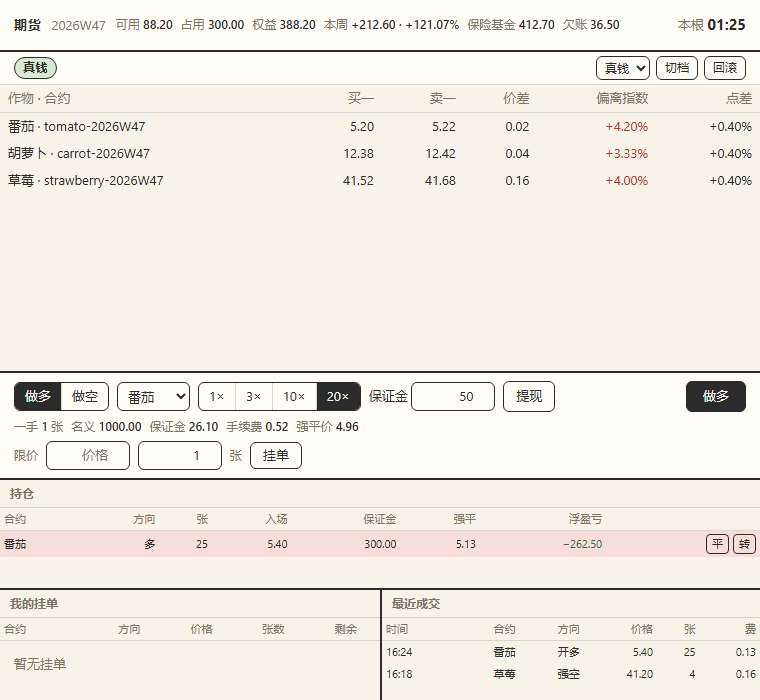
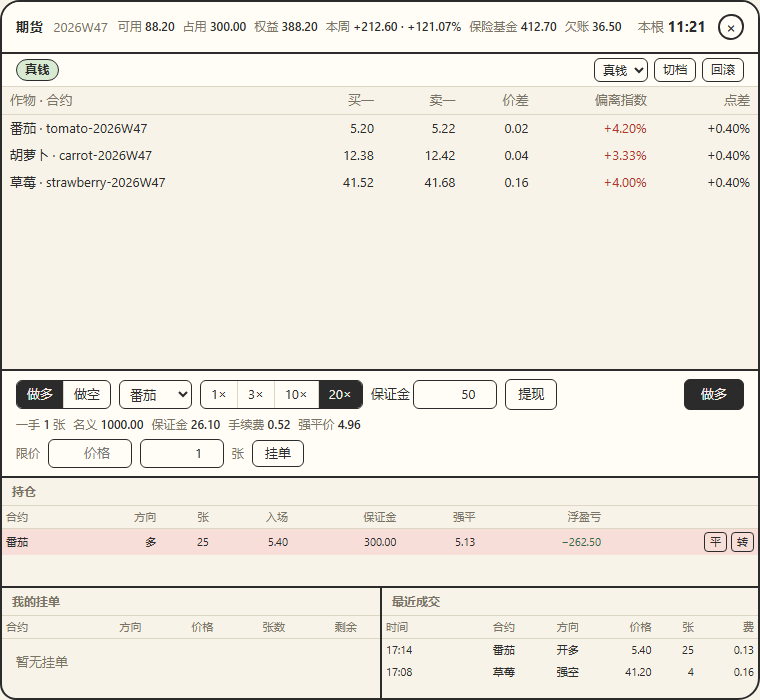
fix(futures): 期货窗补回窗框、拖动区与关闭按钮
无边框窗口（main.js 里 frame:false + transparent:true）里既没有画出来的边框，也没有
×，顶栏还不是拖动区——打开后既挪不动也关不掉，只能靠猜 Esc。盘口窗和农场窗都有
「手绘圆角边框 + 顶栏可拖 + 右上角 ×」这三件套，期货窗当时只做了内容。

- desktop/futures.html：#app 画 2px 手绘圆角边框（与盘口窗同一套圆角）；
  顶栏整条 `-webkit-app-region: drag`、里面的控件 no-drag；顶栏右端加圆形 ×。
- desktop/futures.js：#close → bridge.close()，输入法合成期间不关（与 Esc 同一条规则）。
- test/futures-script-load.test.js：点 × 要调到宿主的 close()，并盯住 HTML 里的
  id="close"、拖动区、窗框三件套，防止以后改样式时又把这扇窗变回白板。
- docs/images：四张截图按新窗框重拍，离屏窗口也改成透明底，圆角外面不再露白。

测试：npm run check → 1184 用例 / 1183 通过 / 0 失败 / 1 跳过

diff --git a/desktop/futures.html b/desktop/futures.html
@@ -25,10 +25,17 @@
     font: 13px/1.45 "Segoe UI", "Microsoft YaHei", system-ui, sans-serif;
     -webkit-user-select: none; user-select: none;
   }
+  /* 窗口是无边框的（main.js 里 frame:false + transparent:true），所以这圈画出来的边框
+     就是它唯一的「窗框」——和盘口窗同一套手绘圆角，悬空的白板会让人以为程序没画完。 */
   #app {
     display: grid; height: 100%;
     grid-template-rows: 52px auto minmax(0, 1fr) auto 220px;
     grid-template-columns: minmax(0, 1fr);
+    overflow: hidden;
+    border: 2px solid var(--line);
+    border-radius: 20px 18px 22px 16px;
+    background: var(--paper);
+    box-shadow: inset 0 1px 0 rgba(255, 255, 255, .9);
   }
   .modebar {
     display: flex; align-items: center; gap: 10px; padding: 4px 14px;
@@ -56,7 +63,20 @@
   header {
     display: flex; align-items: center; gap: 10px; padding: 0 14px;
     border-bottom: 2px solid var(--line); background: var(--card);
+    /* 无边框窗口没有系统标题栏：整条顶栏就是拖动区，里面的控件要单独排除，
+       否则点「×」会变成拖窗口（和盘口窗同一条规则）。 */
+    -webkit-app-region: drag;
   }
+  header button, header select, header input, header textarea { -webkit-app-region: no-drag; }
+  .winClose {
+    flex: none; width: 26px; height: 26px; padding: 0; margin-left: 2px;
+    display: grid; place-items: center;
+    border: 2px solid var(--line); border-radius: 50% 46% 52% 48%;
+    background: transparent; color: var(--ink);
+    font: 600 15px/1 "Segoe UI", "Microsoft YaHei", system-ui, sans-serif;
+    cursor: pointer;
+  }
+  .winClose:hover { background: var(--ink); color: var(--paper); }
   header .brand { font-weight: 700; letter-spacing: .06em; }
   header .week { color: var(--muted); }
   header .count { margin-left: auto; font-variant-numeric: tabular-nums; color: var(--muted); }
@@ -158,6 +178,7 @@
       <span>欠账 <b id="shortfall">—</b></span>
     </div>
     <span class="count">本根 <b id="countdown">—</b></span>
+    <button class="winClose" id="close" type="button" aria-label="关闭期货" title="关闭（Esc）">×</button>
   </header>
 
   <!-- 票 98：三档灰度。常态只显示一枚小徽章 + 限额一行；房主才看得到切档与回滚。 -->

diff --git a/desktop/futures.js b/desktop/futures.js
@@ -415,6 +415,12 @@
     setTimeout(() => { state.busy = false; render() }, 3000)
   })
 
+  // 顶栏的「×」：无边框窗口没有系统关闭按钮，这颗是唯一看得见的出口（Esc 仍可用）。
+  el('close').addEventListener('click', () => {
+    if (state.composing) return
+    bridge.close()
+  })
+
   document.addEventListener('keydown', (event) => {
     if (event.key !== 'Escape') return
     if (state.composing) return
